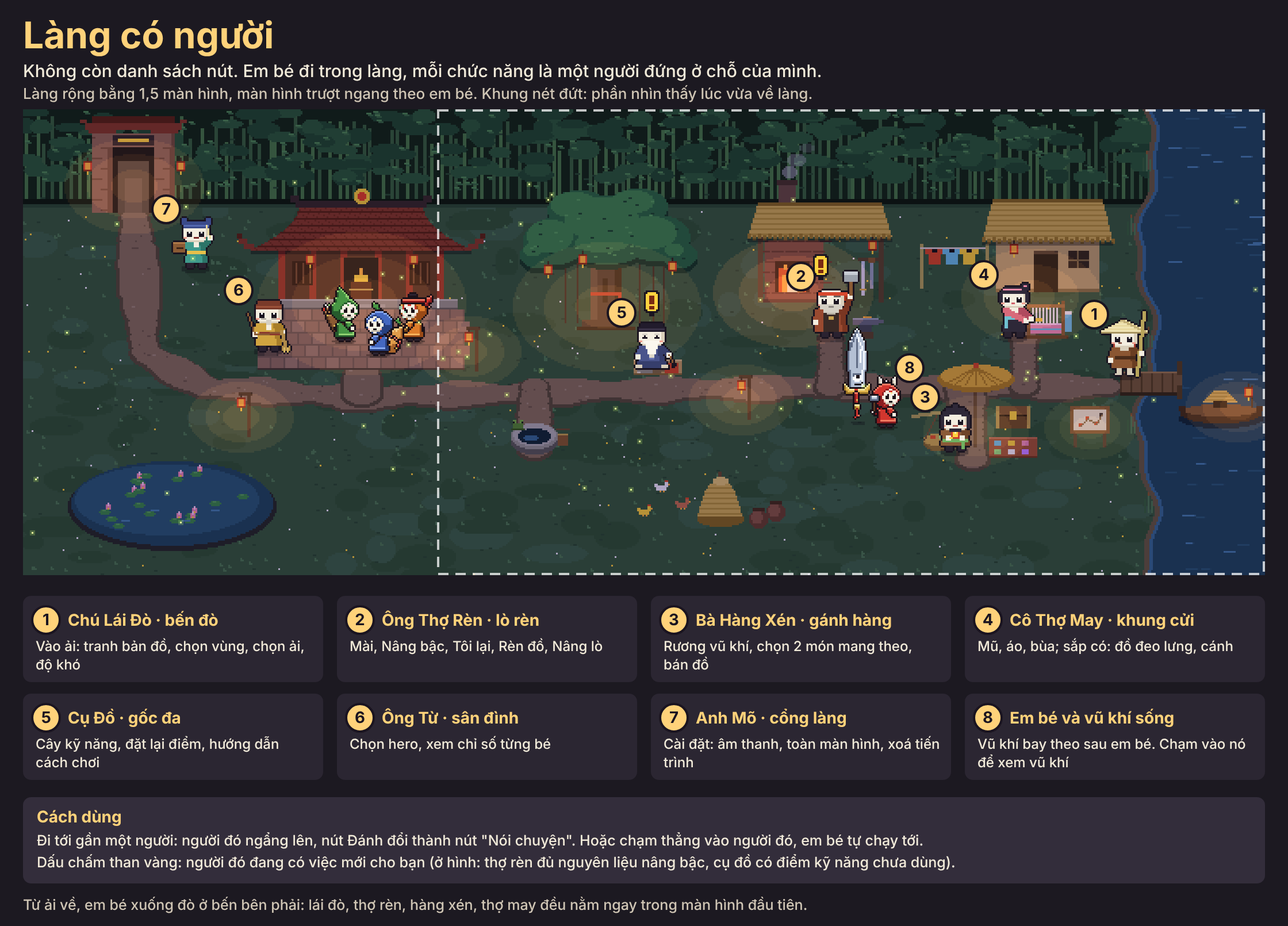
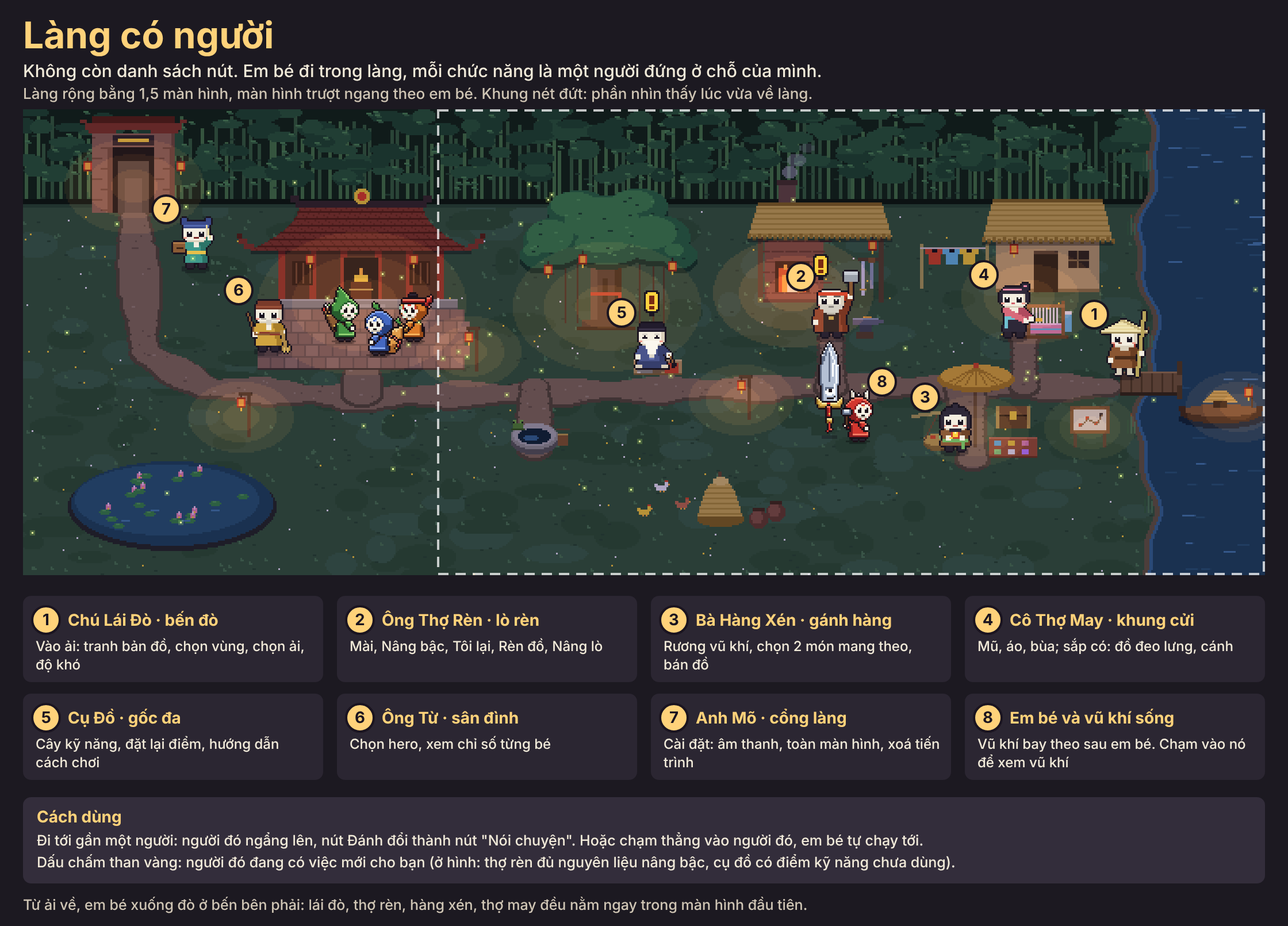
XONG: phác thảo làng có người (6 ảnh, báo cáo, mã dựng)
Claude-Session: https://claude.ai/code/session_01P9duVKd32RxZ6NgiRoPz9Z

Changed region(s): [[0.625, 0.3416, 0.7188, 0.4969]]

diff --git a/docs/phac-thao/lang/nguon/to.js b/docs/phac-thao/lang/nguon/to.js
@@ -85,7 +85,7 @@ function bangLoRen(c, X, Y, s) {
   R(250, 49, 52, 16, '#6a2a22', '#e8b080'); text(c, '✕ Xong', X + T(276), Y + T(60.5), T(7.5), '#fff', true, 'center');
   ['Mài', 'Nâng bậc', 'Tôi lại', 'Rèn đồ', 'Nâng lò'].forEach((t, i) => { R(16 + i * 57, 70, 54, 18, i === 0 ? '#b5672f' : '#4a3a30', i === 0 ? '#ffd27a' : '#7a6a58'); text(c, t, X + T(43 + i * 57), Y + T(82.5), T(7.5), '#fff', true, 'center'); if (i === 1) { c.beginPath(); c.arc(X + T(68 + i * 57), Y + T(72), T(3), 0, 7); c.fillStyle = '#ff5a3a'; c.fill(); } });
   const ws = [['Gươm Rồng Xích Diệm +4', 'Lửa · Thành hình · bậc Tím', '#d48af5', 'sword'], ['Rồng Rắn Sương Giá +2', 'Băng · Mầm · bậc Lam', '#7ac8f0', 'bow'], ['Giáo Sắt +0', 'Chưa mang hệ · bậc Thường', '#d9cdb8', 'spear']];
-  ws.forEach((w, i) => { const y = 96 + i * 34; R(16, y, 284, 30, i === 0 ? '#5a4226' : '#2e2830', i === 0 ? '#ffd27a' : '#5a5060'); R(20, y + 3, 24, 24, '#1a1420', w[2]); const sp = TL.weaponSprite(w[3], 'thuong', 'idle', -45, 0); c.save(); c.beginPath(); c.rect(X + T(21), Y + T(y + 4), T(22), T(22)); c.clip(); c.imageSmoothingEnabled = false; c.drawImage(sp.cv, X + T(25) - sp.ox * s * 0.5, Y + T(y + 23) - sp.oy * s * 0.5, sp.cv.width * s * 0.5, sp.cv.height * s * 0.5); c.restore(); text(c, w[0], X + T(50), Y + T(y + 13), T(8.5), w[2], true); text(c, w[1], X + T(50), Y + T(y + 24), T(6.5), SOFT); });
+  ws.forEach((w, i) => { const y = 96 + i * 34; R(16, y, 284, 30, i === 0 ? '#5a4226' : '#2e2830', i === 0 ? '#ffd27a' : '#5a5060'); R(20, y + 3, 24, 24, '#1a1420', w[2]); const sp = TL.weaponSprite(w[3], 'thuong', 'idle', -45, 0); c.save(); c.beginPath(); c.rect(X + T(21), Y + T(y + 4), T(22), T(22)); c.clip(); c.imageSmoothingEnabled = false; c.drawImage(sp.cv, X + T(w[3] === 'bow' ? 36 : 25) - sp.ox * s * 0.5, Y + T(y + (w[3] === 'bow' ? 21 : 23)) - sp.oy * s * 0.5, sp.cv.width * s * 0.5, sp.cv.height * s * 0.5); c.restore(); text(c, w[0], X + T(50), Y + T(y + 13), T(8.5), w[2], true); text(c, w[1], X + T(50), Y + T(y + 24), T(6.5), SOFT); });
   text(c, 'Lên +5 tốn: 400 vàng, 6 quặng', X + T(18), Y + T(216), T(8), CREAM); text(c, 'Sát thương mỗi đòn 21,4 → 22,6', X + T(18), Y + T(230), T(7.5), '#9be07a');
   R(216, 224, 84, 30, '#a8452a', '#ffd27a'); text(c, 'Mài', X + T(258), Y + T(243.5), T(12), '#fff', true, 'center');
 }
@@ -154,9 +154,9 @@ TO['tuong-tac'] = function () {
       hud(c, X, Y, S, { btn: 'Nói chuyện', hot: true, dots, sel: 'ren' });
     } else if (i === 2) {
       blit(c, man(B, cam, { f: 0, hero: null }), X, Y, S); c.fillStyle = 'rgba(10,8,16,0.6)'; c.fillRect(X, Y, FW, FH);
-      hud(c, X, Y, S, { noPad: true, dots, sel: 'ren' }); bangLoRen(c, X, Y, S);
-      putNpc(c, 'ren', X + 392 * S, Y + 250 * S, 0, { look: -1 }, S * 3);
-      bubble(c, 'Đưa đây ông xem lưỡi nào!', X + 392 * S, Y + 106 * S, 22, { maxW: 240 });
+      hud(c, X, Y, S, { noPad: true, dots, sel: 'ren' }); bangLoRen(c, X + 164 * S, Y, S);
+      putNpc(c, 'ren', X + 84 * S, Y + 250 * S, 0, { look: 1 }, S * 3);
+      bubble(c, 'Đưa đây ông xem lưỡi nào!', X + 84 * S, Y + 112 * S, 22, { maxW: 240 });
     } else {
       blit(c, man(B, cam, { f: 1, look: { ren: 1 }, hero: [492, 146, -1] }), X, Y, S);
       bubble(c, 'Đi cẩn thận nhé!', X + W2(rN[0]), Y + (rN[1] - 44) * S, 22);
@@ -211,5 +211,134 @@ TO['hai-bo-cuc'] = function () {
   text(c, 'Khuyên chọn A cho điện thoại', M + 30, yb + 52, 34, '#9be07a', true);
   text(c, 'Trên điện thoại hai ngón cái che mất hai góc dưới. Làng một màn hình vì thế còn rất ít chỗ, người phải vẽ nhỏ và đứng sát nhau.', M + 30, yb + 96, 26, CREAM);
   text(c, 'Làng rộng thì bốn người hay dùng nhất nằm ngay màn hình đầu, ba người còn lại cách một lần chạm vào dải lối tắt.', M + 30, yb + 134, 26, CREAM);
+  return cv;
+};
+
+// ---------- 5. Bản đồ vùng dạng tranh vẽ ----------
+function saoNho(c, x, y, on) { const col = on ? '#e8a020' : '#b0a078'; p(c, x, y - 1, 1, 3, col); p(c, x - 1, y, 3, 1, col); }
+function veBanDo() {
+  const [cv, c] = mk(480, 270), rd = rng(11), INKB = '#4a3626';
+  p(c, 0, 0, 480, 270, '#e6d8b0');
+  for (let i = 0; i < 900; i++) p(c, rd() * 480, rd() * 270, 1 + (rd() < 0.2 ? 1 : 0), 1, rd() < 0.5 ? '#d8c898' : '#f0e6c8');
+  for (let i = 0; i < 14; i++) ell(c, rd() * 480, rd() * 270, 10 + rd() * 26, 5 + rd() * 12, 'rgba(190,160,100,0.10)');
+  // biển phía dưới
+  for (let y = 214; y < 270; y++) { for (let x = 60; x < 480; x++) { const e = 222 + Math.sin(x * 0.045) * 6 + Math.sin(x * 0.13) * 2 + (x < 110 ? (110 - x) * 0.9 : 0); if (y > e) { p(c, x, y, 1, 1, y - e < 2 ? '#7a9aa4' : '#b4cac8'); } } }
+  for (let i = 0; i < 60; i++) { const x = 70 + rd() * 400, y = 232 + rd() * 36; p(c, x, y, 4, 1, '#7a9aa4'); p(c, x + 4, y - 1, 2, 1, '#7a9aa4'); }
+  // sông từ làng ra biển
+  const song = [[40, 132], [52, 160], [70, 182], [64, 206], [84, 232]]; for (let i = 0; i < song.length - 1; i++) { line(c, song[i][0], song[i][1], song[i + 1][0], song[i + 1][1], 5, '#7a9aa4'); line(c, song[i][0], song[i][1], song[i + 1][0], song[i + 1][1], 3, '#b4cac8'); }
+  // núi mờ phía xa
+  for (const m of [[250, 40, 30], [300, 30, 22], [200, 34, 18], [360, 44, 26]]) for (let i = 0; i < m[2]; i++) p(c, m[0] - i, m[1] + i, i * 2, 1, i < 3 ? '#b8a880' : '#d0c098');
+  // --- Rừng già
+  for (let i = 0; i < 34; i++) { const x = 76 + rd() * 130, y = 40 + rd() * 62 + (x - 76) * -0.1; p(c, x, y, 2, 5, '#5a4030'); ell(c, x + 1, y - 2, 5, 4, i % 3 ? '#4a7a4a' : '#2f5a3a'); ell(c, x, y - 4, 3, 2, '#6a9a5a'); }
+  // --- Hang biển
+  ell(c, 160, 200, 62, 18, '#c8c0a0'); for (const r of [[110, 196, 12, 9], [140, 186, 16, 12], [176, 194, 14, 10], [206, 184, 18, 14], [228, 198, 10, 8]]) { ell(c, r[0], r[1], r[2], r[3], '#6a7a84'); ell(c, r[0] - 2, r[1] - 2, r[2] - 3, r[3] - 3, '#8a9aa0'); }
+  ell(c, 206, 190, 8, 7, '#2a3440'); p(c, 198, 190, 17, 8, '#2a3440'); for (let i = 0; i < 4; i++) p(c, 199 + i * 4, 183 + (i % 2), 2, 4, '#c8d8dc');
+  // --- Lâu đài cổ
+  p(c, 256, 92, 86, 24, '#8a8088'); for (let i = 0; i < 11; i++) p(c, 256 + i * 8, 88, 5, 4, '#8a8088'); for (let i = 0; i < 4; i++) for (let j = 0; j < 10; j++) p(c, 258 + j * 9 - (i % 2) * 4, 96 + i * 5, 7, 1, '#6a606a');
+  for (const tx of [262, 330]) { p(c, tx - 8, 70, 16, 46, '#7a707a'); p(c, tx - 10, 66, 20, 5, '#5a505a'); for (let i = 0; i < 8; i++) p(c, tx - 10 + i, 58 + i, 20 - i * 2, 1, '#8a3a2e'); p(c, tx, 50, 1, 9, INKB); p(c, tx + 1, 50, 6, 4, '#c8402e'); p(c, tx - 2, 82, 4, 6, '#2a2430'); }
+  p(c, 290, 98, 18, 18, '#2a2430'); ell(c, 299, 98, 9, 6, '#2a2430'); for (let i = 0; i < 9; i++) p(c, 280 + i, 78 + i, 38 - i * 2, 1, '#8a3a2e'); p(c, 276, 86, 46, 3, '#5e241d');
+  // --- Ba vùng sắp thêm (mờ, mây che)
+  const mo = '#c4b48c', mo2 = '#b0a078';
+  for (let i = 0; i < 26; i++) { p(c, 400 - i * 1.3, 40 + i, i * 2.6, 1, i < 8 ? '#f4eee0' : mo); } for (let i = 0; i < 18; i++) p(c, 436 - i * 1.2, 52 + i, i * 2.4, 1, i < 5 ? '#f4eee0' : mo2); // núi tuyết
+  for (let i = 0; i < 26; i++) p(c, 436 - i * 1.4 - 3, 134 + i, i * 2.8 + 6, 1, mo2); p(c, 432, 130, 8, 5, '#d08a5a'); p(c, 434, 124, 3, 6, '#e0a070'); p(c, 438, 120, 2, 5, '#e0b890'); p(c, 430, 136, 2, 8, '#d08a5a'); p(c, 440, 138, 2, 12, '#d08a5a'); // núi lửa
+  ell(c, 356, 194, 34, 12, mo); for (let i = 0; i < 7; i++) { const x = 330 + i * 9, y = 190 + (i % 3) * 4; p(c, x, y - 8, 1, 8, mo2); p(c, x - 1, y - 10, 3, 3, '#8a7a58'); p(c, x + 3, y - 5, 1, 5, mo2); } ell(c, 350, 198, 8, 2, '#a8b8a0'); ell(c, 372, 192, 6, 2, '#a8b8a0'); // đầm lầy
+  for (const q of [[392, 76], [420, 84], [446, 68], [420, 164], [450, 158], [340, 204], [372, 204], [404, 150]]) { ell(c, q[0], q[1], 12, 4, '#f6f0dc'); ell(c, q[0] - 6, q[1] - 3, 7, 3, '#f6f0dc'); ell(c, q[0] + 5, q[1] - 2, 6, 3, '#fbf7ea'); p(c, q[0] - 10, q[1] + 4, 20, 1, '#c8b890'); }
+  // --- làng
+  p(c, 26, 122, 22, 10, '#8a5a34'); for (let i = 0; i < 7; i++) p(c, 24 + i, 115 + i, 26 - i * 2 + i, 1, '#c8402e'); p(c, 22, 121, 30, 2, '#8a3a2e'); p(c, 12, 118, 2, 10, '#5a4030'); ell(c, 13, 114, 6, 5, '#4a7a4a'); p(c, 34, 126, 5, 6, '#2a2430');
+  ell(c, 58, 166, 7, 2, '#5a4030'); p(c, 54, 162, 8, 2, '#c9a24f'); // con đò
+  // --- đường đi và điểm ải
+  const V = [40, 138];
+  const R = [
+    { n: [[86, 116], [110, 94], [138, 102], [160, 80], [190, 62]], st: [3, 3, 2, 3, 2], from: V },
+    { n: [[96, 180], [122, 206], [152, 174], [182, 208], [222, 180]], st: [3, 2, 3, 1, 2], from: [70, 182] },
+    { n: [[230, 140], [250, 128], [272, 142], [300, 128], [318, 78]], st: [3, 1, 0, -1, -1], from: [190, 62] },
+  ];
+  function dash(a, b, col) { const n = Math.ceil(Math.hypot(b[0] - a[0], b[1] - a[1]) / 4); for (let j = 1; j < n; j++) if (j % 2) p(c, a[0] + ((b[0] - a[0]) * j) / n, a[1] + ((b[1] - a[1]) * j) / n, 2, 2, col); }
+  dash([190, 62], [230, 140], '#8a6a48'); dash([222, 180], [230, 140], '#8a6a48');
+  dash([318, 78], [392, 70], '#c0ae84'); dash([300, 128], [420, 150], '#c0ae84'); dash([222, 180], [330, 196], '#c0ae84');
+  const out = { R, cur: null };
+  R.forEach((r, ri) => {
+    if (ri < 2) dash(r.from, r.n[0], '#8a6a48');
+    for (let i = 0; i < 4; i++) dash(r.n[i], r.n[i + 1], r.st[i + 1] >= 0 ? '#7a4a30' : '#b0a078');
+    r.n.forEach((q, i) => {
+      const s = r.st[i], boss = i === 4;
+      if (boss) { ell(c, q[0], q[1], 8, 8, INKB); ell(c, q[0], q[1], 7, 7, s > 0 ? '#c8402e' : s === 0 ? '#ffd23f' : '#cbbd96'); ell(c, q[0], q[1], 5, 5, s > 0 ? '#8a2a1e' : '#a89870'); }
+      else { ell(c, q[0], q[1], 5, 5, INKB); ell(c, q[0], q[1], 4, 4, s > 0 ? '#c8402e' : s === 0 ? '#ffd23f' : '#cbbd96'); if (s > 0) { p(c, q[0] - 2, q[1], 2, 2, '#fbf7ee'); p(c, q[0], q[1] + 1, 1, 2, '#fbf7ee'); p(c, q[0] + 1, q[1] - 2, 2, 3, '#fbf7ee'); } else if (s < 0) { p(c, q[0] - 1, q[1] - 1, 3, 3, '#8a7a58'); p(c, q[0] - 1, q[1] - 3, 3, 1, '#8a7a58'); p(c, q[0] - 2, q[1] - 2, 1, 1, '#8a7a58'); p(c, q[0] + 2, q[1] - 2, 1, 1, '#8a7a58'); } }
+      
+      if (s === 0) out.cur = q;
+    });
+  });
+  // hình trùm nhỏ
+  let b = R[0].n[4]; const bx = (q) => [q[0], q[1] - 12];
+  let [x, y] = bx(b); const T1 = outlined(32, 32, 16, 28, (g) => { p(g, -5, -10, 10, 10, '#7a5234'); p(g, -7, -2, 14, 2, '#5a3a22'); ell(g, 0, -13, 8, 4, '#4a8a4a'); ell(g, -3, -16, 4, 3, '#6aaa5a'); p(g, -3, -8, 2, 3, '#ff5a3a'); p(g, 2, -8, 2, 3, '#ff5a3a'); p(g, -2, -3, 5, 1, '#2a1c18'); p(g, -9, -8, 4, 2, '#7a5234'); p(g, 6, -9, 4, 2, '#7a5234'); }); c.drawImage(T1.cv, x - 16, y - 28 + 3);
+  [x, y] = bx(R[1].n[4]); const T2 = outlined(32, 32, 16, 28, (g) => { ell(g, 0, -7, 9, 6, '#3a7a9a'); ell(g, -1, -8, 6, 3, '#5aa0c0'); p(g, 8, -11, 4, 3, '#3a7a9a'); p(g, 8, -5, 4, 3, '#3a7a9a'); p(g, -2, -15, 5, 3, '#2a5a7a'); p(g, -6, -9, 2, 2, '#ff5a3a'); for (let i = 0; i < 3; i++) p(g, -8 + i * 2, -4, 1, 2, '#fff'); }); c.drawImage(T2.cv, x - 16, y - 28 + 3);
+  [x, y] = bx(R[2].n[4]); const T3 = outlined(32, 32, 16, 28, (g) => { ell(g, 0, -7, 7, 6, '#e0782a'); p(g, -7, -16, 4, 6, '#e0782a'); p(g, 4, -16, 4, 6, '#e0782a'); p(g, -6, -14, 2, 3, '#2a1c18'); p(g, 5, -14, 2, 3, '#2a1c18'); ell(g, 0, -4, 4, 3, '#fbf7ee'); p(g, -4, -9, 2, 2, '#ffe07a'); p(g, 3, -9, 2, 2, '#ffe07a'); p(g, 0, -5, 1, 1, '#2a1c18'); p(g, 8, -8, 5, 3, '#e0782a'); p(g, 11, -11, 3, 4, '#fbf7ee'); }); c.drawImage(T3.cv, x - 16, y - 28 + 3);
+  // em bé đứng ở ải đang tới
+  if (out.cur) { const q = out.cur; for (const r of [9, 8]) { c.strokeStyle = '#c8402e'; c.lineWidth = 1; c.beginPath(); c.ellipse(q[0] + 0.5, q[1] + 0.5, r, r * 0.8, 0, 0, 7); if (r === 9) c.stroke(); } putHero(c, q[0], q[1] - 3, 1, {}); }
+  // la bàn, viền
+  p(c, 22, 14, 1, 18, INKB); p(c, 14, 22, 17, 1, INKB); p(c, 21, 12, 3, 3, '#c8402e'); ell(c, 22, 22, 3, 3, '#e6d8b0'); ell(c, 22, 22, 1, 1, INKB);
+  for (const k of [0, 1, 2]) { c.strokeStyle = ['#6a4a30', '#a88a58', '#6a4a30'][k]; c.lineWidth = 1; c.strokeRect(k * 2 + 0.5, k * 2 + 0.5, 479 - k * 4, 269 - k * 4); }
+  return { cv, out };
+}
+TO['ban-do-vung'] = function () {
+  const S = 4, M = 40, [cv, c] = mk(2000, 170 + 1080 + 330), X = M, Y = 170, T = (v) => v * S;
+  p(c, 0, 0, cv.width, cv.height, PAGE);
+  text(c, 'Bản đồ vùng là một tấm tranh', M, 80, 60, GOLDT, true);
+  text(c, 'Nói chuyện với Chú Lái Đò thì tranh mở ra. Chạm một điểm ải trên tranh, rồi bấm "Lên đò". Hình phóng 4 lần.', M, 124, 27, CREAM);
+  const m = veBanDo(); blit(c, m.cv, X, Y, S);
+  const nm = (s, x, y, px, col) => { c.font = '700 ' + px + 'px ' + FONT; c.lineWidth = px / 4; c.strokeStyle = 'rgba(240,230,200,0.85)'; c.textAlign = 'center'; c.strokeText(s, X + T(x), Y + T(y)); text(c, s, X + T(x), Y + T(y), px, col, true, 'center'); };
+  nm('Làng', 36, 112, 30, '#4a3626'); nm('Rừng già', 126, 34, 38, '#2f5a3a'); nm('Hang biển', 150, 228, 38, '#2a5a7a'); nm('Lâu đài cổ', 300, 46, 38, '#7a2a22');
+  nm('Mộc Tinh', 222, 60, 22, '#4a3626'); nm('Ngư Tinh', 256, 176, 22, '#4a3626'); nm('Hồ Tinh', 346, 62, 22, '#4a3626');
+  nm('Núi tuyết', 412, 34, 30, '#8a7a58'); nm('Núi lửa', 432, 112, 30, '#8a7a58'); nm('Đầm lầy', 356, 176, 30, '#8a7a58');
+  for (const q of [[412, 96], [432, 174], [356, 162]]) { rr(c, X + T(q[0]) - 62, Y + T(q[1]) - 22, 124, 32, 16, 'rgba(74,54,38,0.85)'); text(c, 'sắp có', X + T(q[0]), Y + T(q[1]), 22, '#f0e6c8', true, 'center'); }
+  m.out.R.forEach((r) => r.n.forEach((q, i) => { const s = r.st[i]; if (s > 0) for (let k = 0; k < 3; k++) { c.font = '700 20px ' + FONT; c.lineWidth = 4; c.strokeStyle = '#4a3626'; c.textAlign = 'center'; const sx = X + T(q[0]) + (k - 1) * 19, sy = Y + T(q[1] + (i === 4 ? 14.5 : 11.5)); c.strokeText('★', sx, sy); text(c, '★', sx, sy, 20, k < s ? '#ffd23f' : '#d8caa0', true, 'center'); } }));
+  // thẻ ải đang chọn + lái đò
+  const q = m.out.cur; bubble(c, 'Ải 3', X + T(q[0]), Y + T(q[1] - 30), 26, { bg: '#ffe9a8' });
+  putNpc(c, 'lai', X + T(34), Y + T(262), 0, { look: 1, noShadow: true }, S * 2); bubble(c, 'Đi đâu hả cháu?', X + T(40), Y + T(196), 26, { dx: 40 });
+  rr(c, X + T(250), Y + T(214), T(222), T(50), T(4), 'rgba(28,22,30,0.94)', '#c9a24f', T(1));
+  text(c, 'Lâu đài cổ · Ải 3', X + T(258), Y + T(229), T(10), GOLDT, true); text(c, 'Hệ chủ đạo: Lửa · Gợi ý cấp hero 20', X + T(258), Y + T(241), T(7), CREAM); text(c, 'Thưởng: kinh nghiệm, vàng, đá lửa', X + T(258), Y + T(251), T(7), SOFT);
+  rr(c, X + T(258), Y + T(254.5), T(78), T(7), T(2), null, null); text(c, 'Độ khó: thường (chạm để đổi)', X + T(258), Y + T(260.5), T(6.5), '#d48af5', true);
+  rr(c, X + T(396), Y + T(222), T(68), T(34), T(4), '#a8452a', '#ffd27a', T(1)); text(c, 'Lên đò', X + T(430), Y + T(243), T(12), '#fff', true, 'center');
+  rr(c, X + T(404), Y + T(6), T(58), T(16), T(3), '#5a4030', '#c9a24f', T(0.8)); text(c, '✕ Về làng', X + T(433), Y + T(17.5), T(8), '#fff', true, 'center');
+  rr(c, X, Y, 1920, 1080, 4, null, '#5a5060', 3);
+  // chú giải
+  const y0 = Y + 1080 + 40; rr(c, M, y0, 1920, 250, 16, PANEL);
+  const [lg, lc] = mk(120, 20); p(lc, 0, 0, 120, 20, '#e6d8b0');
+  const items = [['Ải đã qua, bên dưới là số sao', (x, y) => { ell(lc, x, y, 5, 5, '#4a3626'); ell(lc, x, y, 4, 4, '#c8402e'); }], ['Ải đang tới: em bé đứng ở đó', (x, y) => { ell(lc, x, y + 3, 5, 5, '#4a3626'); ell(lc, x, y + 3, 4, 4, '#ffd23f'); }], ['Ải chưa mở (có khoá)', (x, y) => { ell(lc, x, y, 5, 5, '#4a3626'); ell(lc, x, y, 4, 4, '#cbbd96'); p(lc, x - 1, y - 1, 3, 3, '#8a7a58'); }], ['Ải trùm: vòng to, có hình trùm', (x, y) => { ell(lc, x, y, 8, 8, '#4a3626'); ell(lc, x, y, 7, 7, '#c8402e'); ell(lc, x, y, 5, 5, '#8a2a1e'); }]];
+  items.forEach((it, i) => { const [g, gc] = mk(22, 22); p(gc, 0, 0, 22, 22, '#e6d8b0'); p(lc, 0, 0, 120, 20, '#e6d8b0'); it[1](11, 10); gc.drawImage(lg, 0, 0, 22, 20, 0, 1, 22, 20); const x = M + 30 + i * 470; c.save(); c.beginPath(); c.roundRect(x, y0 + 28, 66, 66, 10); c.clip(); blit(c, g, x, y0 + 28, 3); c.restore(); para(c, it[0], x + 82, y0 + 56, 350, 24, CREAM, 30); });
+  text(c, 'Đường nét đứt nối các ải theo thứ tự. Hạ trùm vùng này thì đường sang vùng sau hiện ra.', M + 30, y0 + 142, 25, CREAM);
+  text(c, 'Ba vùng sắp thêm (Đầm lầy, Núi tuyết, Núi lửa) đã có chỗ sẵn trên tranh, đang bị mây che. Thêm vùng không phải vẽ lại bản đồ.', M + 30, y0 + 180, 25, CREAM);
+  text(c, 'Độ khó 2 đổi tranh sang màu đêm. Số sao và ổ khoá lấy đúng theo tiến trình đang lưu.', M + 30, y0 + 218, 25, SOFT);
+  return cv;
+};
+
+// ---------- 6. Trên màn hình thật ----------
+TO['tren-man-hinh-that'] = function () {
+  const B = BO_CUC.rong, S = 3, M = 100, SW = 480 * S, SH = 270 * S, cam = 240, [cv, c] = mk(2000, 150 + 2 * (SH + 290) + 10);
+  p(c, 0, 0, cv.width, cv.height, PAGE);
+  text(c, 'Trên điện thoại thật', 40, 80, 60, GOLDT, true);
+  text(c, 'Hai ngón cái đặt ở hai góc dưới. Người và bảng đều nằm ngoài chỗ ngón tay che. Hình phóng 3 lần.', 40, 124, 27, CREAM);
+  for (let i = 0; i < 2; i++) {
+    const Y = 230 + i * (SH + 290), X = (2000 - SW) / 2;
+    text(c, i === 0 ? 'Lúc đi trong làng' : 'Lúc bảng đang mở', X - 60, Y - 56, 32, GOLDT, true);
+    rr(c, X - 70, Y - 34, SW + 140, SH + 68, 60, '#0c0a10', '#4a4454', 4); rr(c, X - 46, Y + SH / 2 - 60, 16, 120, 8, '#1c1921');
+    c.save(); c.beginPath(); c.roundRect(X, Y, SW, SH, 26); c.clip();
+    if (i === 0) {
+      blit(c, man(B, cam, { f: 0, bang: ['ren'], look: { xen: -1 }, hero: [514, 204, 1] }), X, Y, S);
+      const q = B.xenN; bubble(c, 'Hàng xén', X + (q[0] - cam) * S, Y + (q[1] - 40) * S, 34, { bg: '#ffe9a8' });
+      hud(c, X, Y, S, { btn: 'Nói chuyện', hot: true, dots: ['ren', 'do'], sel: 'xen', joy: [8, -4] });
+      for (const z of [[18, 172, 92, 94], [358, 172, 116, 94]]) { c.save(); c.setLineDash([14, 10]); c.lineWidth = 3; c.strokeStyle = 'rgba(255,255,255,0.55)'; c.strokeRect(X + z[0] * S, Y + z[1] * S, z[2] * S, z[3] * S); c.restore(); }
+      text(c, 'chỗ ngón trái che', X + 20 * S, Y + 169 * S, 22, '#fff', true); text(c, 'chỗ ngón phải che', X + 470 * S, Y + 169 * S, 22, '#fff', true, 'right');
+    } else {
+      blit(c, man(B, cam, { f: 0, hero: null }), X, Y, S); c.fillStyle = 'rgba(10,8,16,0.6)'; c.fillRect(X, Y, SW, SH);
+      hud(c, X, Y, S, { noPad: true, dots: ['ren', 'do'], sel: 'ren' }); bangLoRen(c, X + 164 * S, Y, S);
+      putNpc(c, 'ren', X + 84 * S, Y + 250 * S, 0, { look: 1 }, S * 3); bubble(c, 'Đưa đây ông xem lưỡi nào!', X + 84 * S, Y + 112 * S, 30, { maxW: 330 });
+    }
+    c.restore();
+    ngon(c, X + 36 * S, Y + 250 * S, 30 * S, 52 * S, 0.6); ngon(c, X + 448 * S, Y + (i ? 262 : 250) * S, 30 * S, 52 * S, -0.55);
+    const yy = Y + SH + 110;
+    if (i === 0) { text(c, 'Người đứng ở hàng trên và giữa màn hình. Dưới ngón tay chỉ có giếng, cây rơm, tấm tranh, con đò: che cũng không sao.', X - 60, yy, 25, CREAM); text(c, 'Bà Hàng Xén đứng thấp nhất nhưng nằm giữa hai ngón tay. Dải khuôn mặt ở mép trên, không ngón nào che.', X - 60, yy + 36, 25, CREAM); }
+    else { text(c, 'Bảng nằm bên phải: nút chính (Mài) rơi đúng chỗ ngón phải vẫn bấm nút Đánh, không phải với tay.', X - 60, yy, 25, CREAM); text(c, 'Người đứng bên trái bảng và nói. Cần điều khiển ẩn đi khi bảng mở. Chạm khuôn mặt khác ở mép trên để sang người khác.', X - 60, yy + 36, 25, CREAM); }
+  }
   return cv;
 };

diff --git a/docs/phac-thao/lang/nguon/lang.js b/docs/phac-thao/lang/nguon/lang.js
@@ -263,7 +263,7 @@ function glow(c, x, y, r, col) { c.save(); c.globalCompositeOperation = 'lighter
 // ======================= BỐ CỤC LÀNG =======================
 // Mỗi bố cục: W (bề rộng làng), vị trí công trình và người.
 const BO_CUC = {
-  rong: { W: 720, cong: [64, 60], mo: [100, 92], dinh: [196, 116], tu: [142, 140], be: [[186, 134, 'hunter'], [206, 142, 'healer'], [226, 134, 'wrestler']], da: [338, 128], doo: [364, 150], gieng: [296, 196], ren: [462, 112], renN: [468, 132], xen: [552, 196], xenN: [540, 198], may: [594, 108], mayN: [574, 132], cui: [592, 132], phoi: [520, 104, 38], song: 652, cau: [636, 156, 36], lai: [638, 154], thuyen: [694, 178], tranh: [618, 196], ao: [86, 228, 58, 24], rom: [404, 240], hero: [500, 184] },
+  rong: { W: 720, cong: [64, 60], mo: [100, 92], dinh: [196, 116], tu: [142, 140], be: [[186, 134, 'hunter'], [206, 142, 'healer'], [226, 134, 'wrestler']], da: [338, 128], doo: [364, 150], gieng: [296, 196], ren: [462, 112], renN: [468, 132], xen: [552, 196], xenN: [540, 198], may: [594, 108], mayN: [574, 132], cui: [592, 132], phoi: [520, 104, 38], song: 652, cau: [636, 156, 36], lai: [638, 154], thuyen: [694, 178], tranh: [618, 196], ao: [86, 228, 58, 24], rom: [404, 240], hero: [484, 192] },
   vua: { W: 480, cong: [40, 60], mo: [70, 90], dinh: [150, 114], tu: [100, 136], be: [[140, 132, 'hunter'], [158, 138, 'healer'], [176, 132, 'wrestler']], da: [262, 104], doo: [282, 128], gieng: [214, 176], ren: [356, 112], renN: [362, 132], xen: [300, 190], xenN: [288, 192], may: [0, 0], mayN: [196, 208], cui: [214, 208], phoi: [150, 196, 28], song: 428, cau: [412, 152, 36], lai: [414, 150], thuyen: [462, 172], tranh: [412, 118], ao: [0, 0, 0, 0], rom: [0, 0], hero: [330, 160] },
 };
 const NGUOI = [ // thứ tự đánh số trên tờ toàn cảnh

diff --git a/docs/phac-thao/lang/BAO-CAO.md b/docs/phac-thao/lang/BAO-CAO.md
@@ -1,0 +1,110 @@
+# Làng có người: tờ phác thảo để duyệt
+
+Yêu cầu của chủ dự án: giao diện phá cách, "các nút chức năng chuyển thành người".
+Phiên này chỉ thiết kế và vẽ phác thảo. Chưa sửa dòng mã game nào.
+
+## Ý chính
+
+- Màn làng không còn danh sách nút. Làng là một cảnh nhìn từ trên xuống chếch, cùng góc nhìn với phòng trong ải.
+- Em bé hero đi tám hướng bằng cần điều khiển. Vũ khí sống bay theo sau.
+- Mỗi chức năng là một người đứng cạnh công trình của mình. Có bảy người.
+- Tới gần một người: người đó ngẩng lên, nút Đánh đổi thành "Nói chuyện". Chạm thẳng vào người cũng được.
+- Mép trên màn hình có dải bảy khuôn mặt. Chạm một mặt là em bé tự chạy tới và mở bảng luôn.
+- Ai có việc mới thì có dấu chấm than vàng trên đầu, và chấm đỏ trên khuôn mặt ở dải lối tắt.
+
+## Các ảnh
+
+| Ảnh | Nội dung |
+|---|---|
+| `lang-toan-canh.png` | Toàn cảnh làng, phóng 3 lần, có đánh số từng người |
+| `nguoi-trong-lang.png` | Từng người phóng 6 lần: câu thoại, động tác khi rảnh, hình khi có việc mới |
+| `tuong-tac.png` | Bốn bước nói chuyện với thợ rèn, và dải lối tắt |
+| `hai-bo-cuc.png` | So sánh làng rộng và làng vừa một màn hình |
+| `ban-do-vung.png` | Bản đồ vùng dạng tranh vẽ |
+| `tren-man-hinh-that.png` | Ghép lên khung điện thoại, có vẽ chỗ ngón tay che |
+
+## Chức năng nào thuộc người nào
+
+Bảng này phủ hết mọi thứ đang có trong `game/js/village.js`.
+
+| Chức năng đang có | Ở đâu trong mã | Giao cho ai |
+|---|---|---|
+| Vào ải: chọn vùng, chọn ải, xem sao, thưởng, gợi ý cấp, nút Bắt đầu | bảng "Bản đồ: chọn ải" | **Chú Lái Đò** ở bến đò. Mở ra là tranh bản đồ, nút thành "Lên đò" |
+| Đổi độ khó thường và độ khó 2 | bảng Bản đồ | **Chú Lái Đò** (một dòng trong thẻ ải) |
+| Mài vũ khí | Lò rèn, thẻ Mài | **Ông Thợ Rèn** ở lò rèn |
+| Nâng bậc (Thường, Lam, Tím, Vàng theo trùm) | Lò rèn, thẻ Nâng bậc | **Ông Thợ Rèn** |
+| Tôi lại (đổi hệ bằng đá tôi) | Lò rèn, thẻ Tôi lại | **Ông Thợ Rèn** |
+| Rèn đồ (mũ, áo) | Lò rèn, thẻ Rèn đồ | **Ông Thợ Rèn** |
+| Nâng lò | Lò rèn, thẻ Nâng lò | **Ông Thợ Rèn** |
+| Rương vũ khí, chọn hai món đang mang, lật trang | bảng Trang bị, nửa trái | **Bà Hàng Xén** ở gánh hàng (có cái rương cạnh bà) |
+| Bán vũ khí lấy vàng | bảng Trang bị, nút Bán | **Bà Hàng Xén** |
+| Đổi mũ, áo, bùa | bảng Trang bị, nửa phải | **Cô Thợ May** ở khung cửi |
+| Trang phục sắp có: đồ đeo lưng, cánh | chưa có | **Cô Thợ May** (đã chừa chỗ) |
+| Chọn hero, xem chỉ số, sở trường, nội tại, kỹ năng | bảng "Hero và kỹ năng", nửa trái | **Ông Từ** ở sân đình. Ba bé còn lại ngồi chơi trong sân, chạm vào bé nào là đổi sang bé đó |
+| Cây kỹ năng: học ba nhánh Công, Thủ, Hệ; đặt lại điểm | bảng "Hero và kỹ năng", nửa phải | **Cụ Đồ** dưới gốc đa |
+| Hướng dẫn ba trang | bảng Hướng dẫn | **Cụ Đồ** |
+| Xem vũ khí (bậc, dòng phụ, đặc trưng hệ) | bảng Xem vũ khí | Chạm vào **vũ khí sống** đang bay theo em bé. Ở chỗ Bà Hàng Xén vẫn có nút Xem cho món trong rương |
+| Cài đặt: âm thanh, toàn màn hình, xoá tiến trình (có hỏi lại) | bảng Cài đặt | **Anh Mõ** ở cổng làng |
+| Dòng tài nguyên: vàng, quặng, đá tôi, nguyên liệu ba vùng, mảnh trùm | dải trên cùng | Giữ nguyên ở mép trên |
+| Thẻ hero ở góc phải: cấp, máu, mana, hai vũ khí, mũ áo | màn làng cũ | Bỏ thẻ. Tên và cấp lên dải trên cùng. Em bé và vũ khí thì nhìn thấy ngay trong làng |
+| Báo "còn điểm kỹ năng chưa dùng" | màn làng cũ | Dấu chấm than trên đầu Cụ Đồ |
+| Màn tiêu đề "Chạm để bắt đầu", phím Esc đóng bảng | cuối file | Giữ nguyên |
+
+Có hai bảng cũ bị tách đôi: Trang bị (vũ khí về Bà Hàng Xén, mũ áo bùa về Cô Thợ May) và Hero và kỹ năng (chọn hero về Ông Từ, cây kỹ năng về Cụ Đồ). Tách ra thì mỗi bảng nhỏ hơn và đủ chỗ cho người đứng cạnh.
+
+Con cóc ở giếng chỉ để vui, không giữ chức năng nào.
+
+## Bố cục khuyên chọn: làng rộng 1,5 màn hình
+
+Khuyên chọn phương án A trong `hai-bo-cuc.png`: làng rộng 720 điểm (màn hình 480), màn hình trượt ngang theo em bé.
+
+Lý do:
+
+1. Trên điện thoại hai ngón cái che hai góc dưới. Làng một màn hình chỉ còn dùng được khoảng hai phần ba, bảy người phải đứng sát nhau và vẽ nhỏ.
+2. Làng rộng thì cảnh trượt, không ai bị ngón tay che mãi.
+3. Từ ải về, em bé xuống đò ở bến bên phải. Bốn người hay dùng nhất (lái đò, thợ rèn, hàng xén, thợ may) nằm ngay màn hình đầu tiên. Ba người ít dùng (cụ đồ, ông từ, anh mõ) nằm bên trái.
+4. Còn đất để thêm người mới sau này.
+
+Cách xếp trong màn hình: người đứng ở hàng trên và hàng giữa. Hàng dưới chỉ có ao sen, giếng, cây rơm, đàn gà.
+
+Khi mở bảng: bảng nằm bên phải, người đứng bên trái và nói một câu. Nút chính của bảng rơi đúng chỗ ngón phải vẫn bấm nút Đánh.
+
+## Ước lượng công làm thật
+
+Tính theo phiên làm việc như phiên này.
+
+| Việc | Công |
+|---|---|
+| Vẽ làng thật vào game (nền, công trình, đèn, đom đóm) | 2 phiên |
+| Bảy người, mỗi người 3 khung động tác, hình ngẩng lên | 1 đến 2 phiên |
+| Mã đi lại trong làng, màn hình trượt, tới gần thì hiện bong bóng, nút "Nói chuyện" | 1 đến 2 phiên |
+| Dải lối tắt, chạm vào người thì tự chạy tới, dấu chấm than | 1 phiên |
+| Chuyển sáu bảng cũ sang kiểu "bảng cạnh người", tách hai bảng | 1 đến 2 phiên |
+| Bản đồ vùng dạng tranh | 1 đến 2 phiên |
+| Thử trên điện thoại, sửa chỗ khó chạm | 1 phiên |
+| **Tổng** | **khoảng 8 đến 12 phiên** |
+
+Có thể làm từng bước: bước đầu chỉ cần làng, người và nút "Nói chuyện" mở lại đúng các bảng cũ. Tranh bản đồ và việc tách bảng làm sau.
+
+## Rủi ro
+
+- **Chậm hơn bấm nút.** Em bé đi 72 điểm mỗi giây. Từ bến đò sang cổng làng mất chừng 7 giây. Cách giảm: dải lối tắt, chạm thẳng vào người, và cho em bé chạy nhanh gấp rưỡi khi ở làng.
+- **Người mới chưa biết ai làm gì.** Cách giảm: bong bóng ghi tên chức năng ("Lò rèn") chứ không ghi tên người; lần đầu vào làng Anh Mõ rao và dẫn đi một vòng.
+- **Khó chạm trúng.** Người cao khoảng 30 điểm, khá nhỏ trên điện thoại. Vùng chạm phải rộng hơn hình, và khuôn mặt ở dải lối tắt phải đủ to. Cần thử trên máy thật.
+- **Trời chạng vạng làm hình tối.** Phác thảo đang để trời tối cho có đèn lồng và đom đóm. Nếu thấy khó nhìn thì đổi sang ban ngày, đêm chỉ dùng cho độ khó 2.
+- **Tách bảng Trang bị làm hai** có thể làm người chơi cũ lạ tay lúc đầu.
+- **Tốn công vẽ hơn** màn làng hiện tại nhiều lần.
+
+## Điều cần chủ dự án quyết
+
+1. Chọn làng rộng (A) hay làng một màn hình (B)?
+2. Giữ trời chạng vạng hay đổi sang ban ngày?
+3. Đồng ý tách bảng Trang bị và bảng Hero như bảng trên không?
+4. Tên và dáng bảy người có cần đổi ai không?
+
+## Ghi chú thật thà
+
+- Các ảnh do mã vẽ trong `nguon/` dựng ra, chưa phải hình chạy trong game. Em bé hero và vũ khí sống thì lấy thẳng từ mã game nên giống hệt.
+- Động tác khi rảnh của vài người (lái đò, ông từ, cô thợ may) mới khác nhau ít giữa các khung. Lúc làm thật cần vẽ rõ hơn.
+- Bảng lò rèn và thẻ ải trong ảnh là hình mẫu, số liệu chỉ để minh hoạ.
+- Dựng lại ảnh: `python3 docs/phac-thao/lang/nguon/dung.py`.
